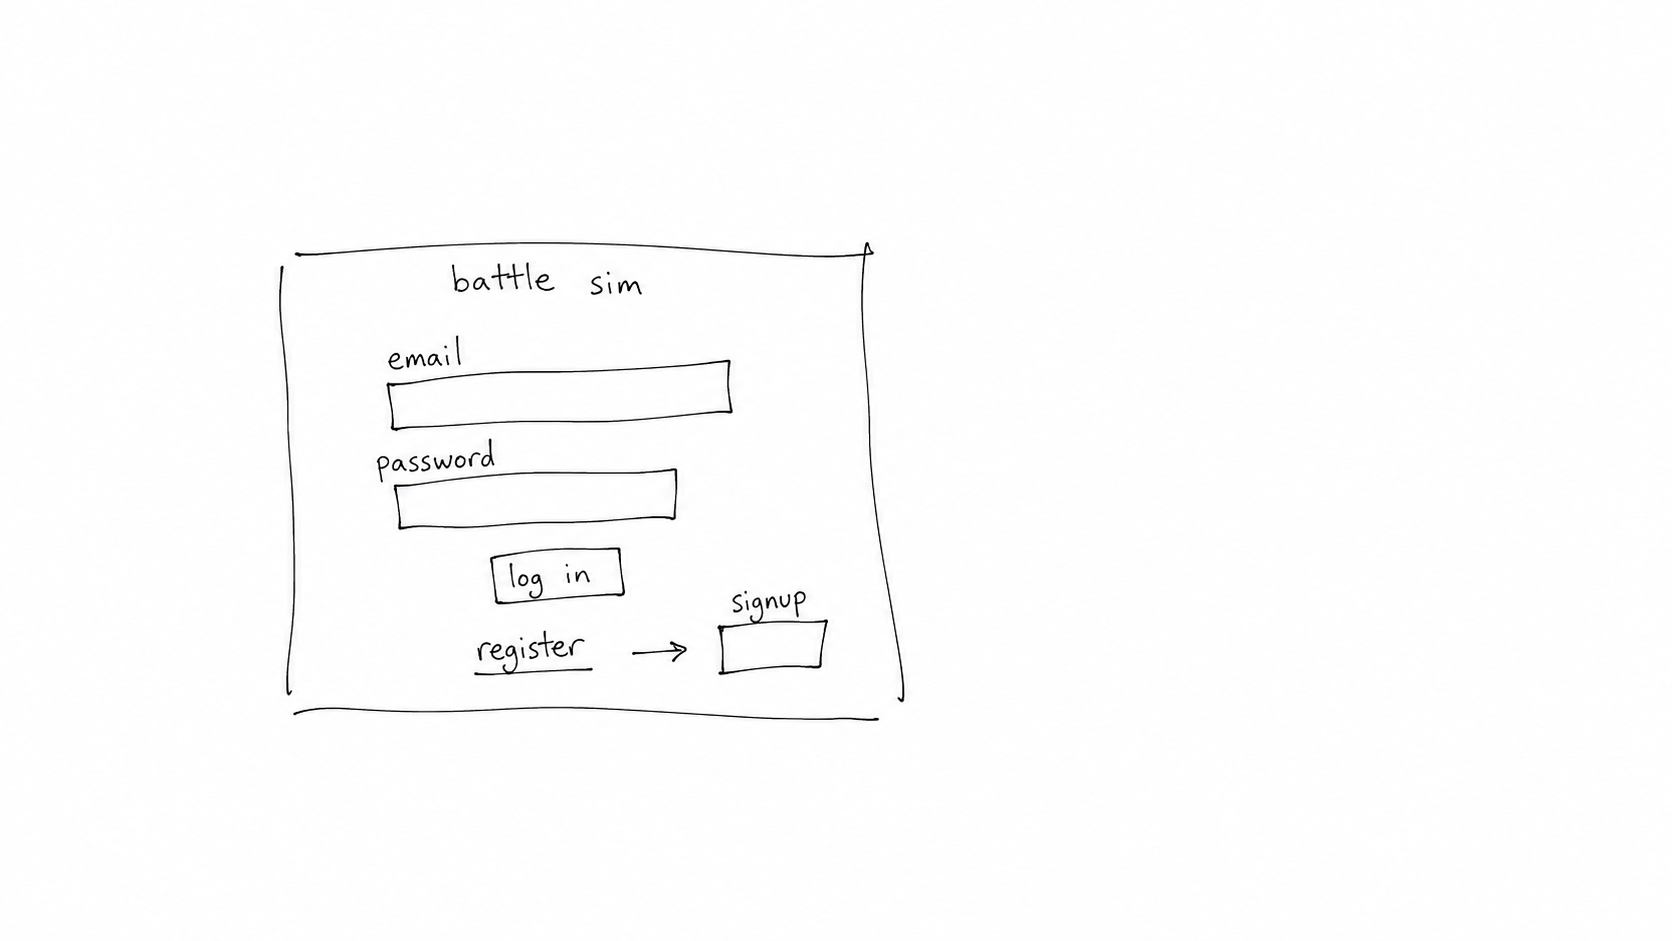
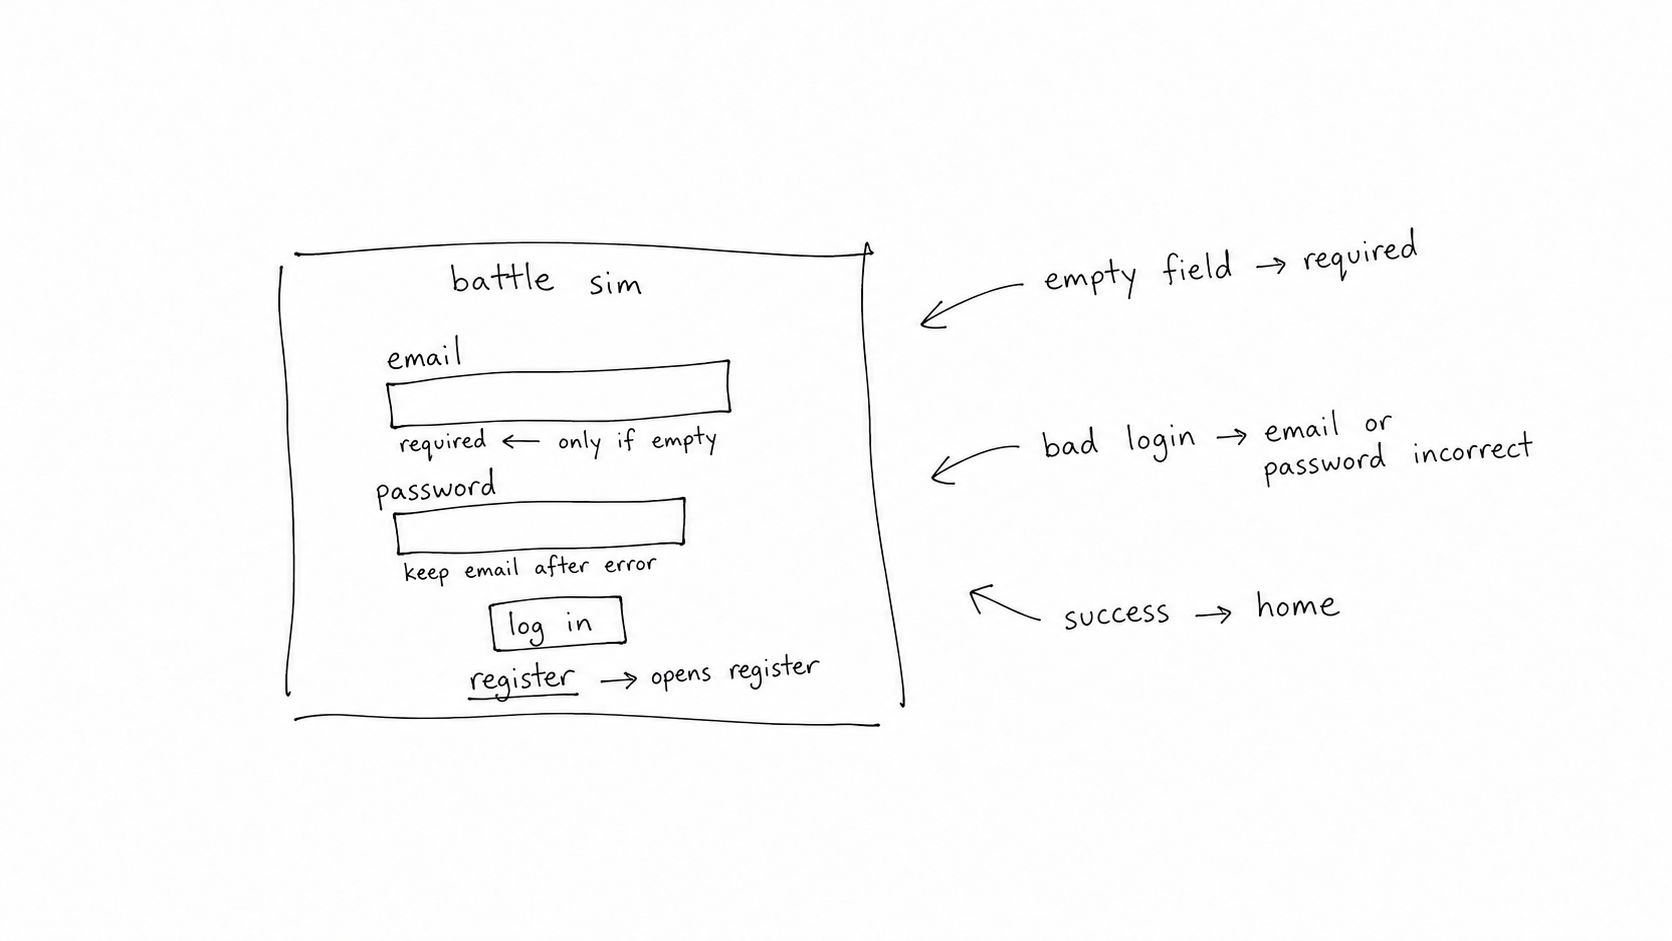
Clarify account validation and navigation states
Refs #15.

diff --git a/MilestoneSubmissions/wireframes/account-wireframes.md b/MilestoneSubmissions/wireframes/account-wireframes.md
@@ -9,7 +9,10 @@ These are low-fidelity design concepts. They do not implement authentication or 
 
 ## Review notes
 
-- The tiny signup box/arrow in the login sketch is a navigation annotation, not an additional input.
+- Register is a navigation link to registration, not another input.
 - Blank password fields stand for masked password entry.
-- Validation/error-state designs still need review; these images do not by themselves satisfy every acceptance criterion in #15.
+- Login annotates missing-field and invalid-credential errors, preserves email after an error, and identifies Home as the success destination.
+- Registration annotates missing fields, existing email, and mismatched passwords. Name/email are retained after errors, and success returns to login.
+- The error annotations describe alternative states, not messages permanently displayed together.
+- Fields and registration behavior still need team confirmation and a recorded teammate review.
 - Desktop layout only; responsive behavior is not defined here.
